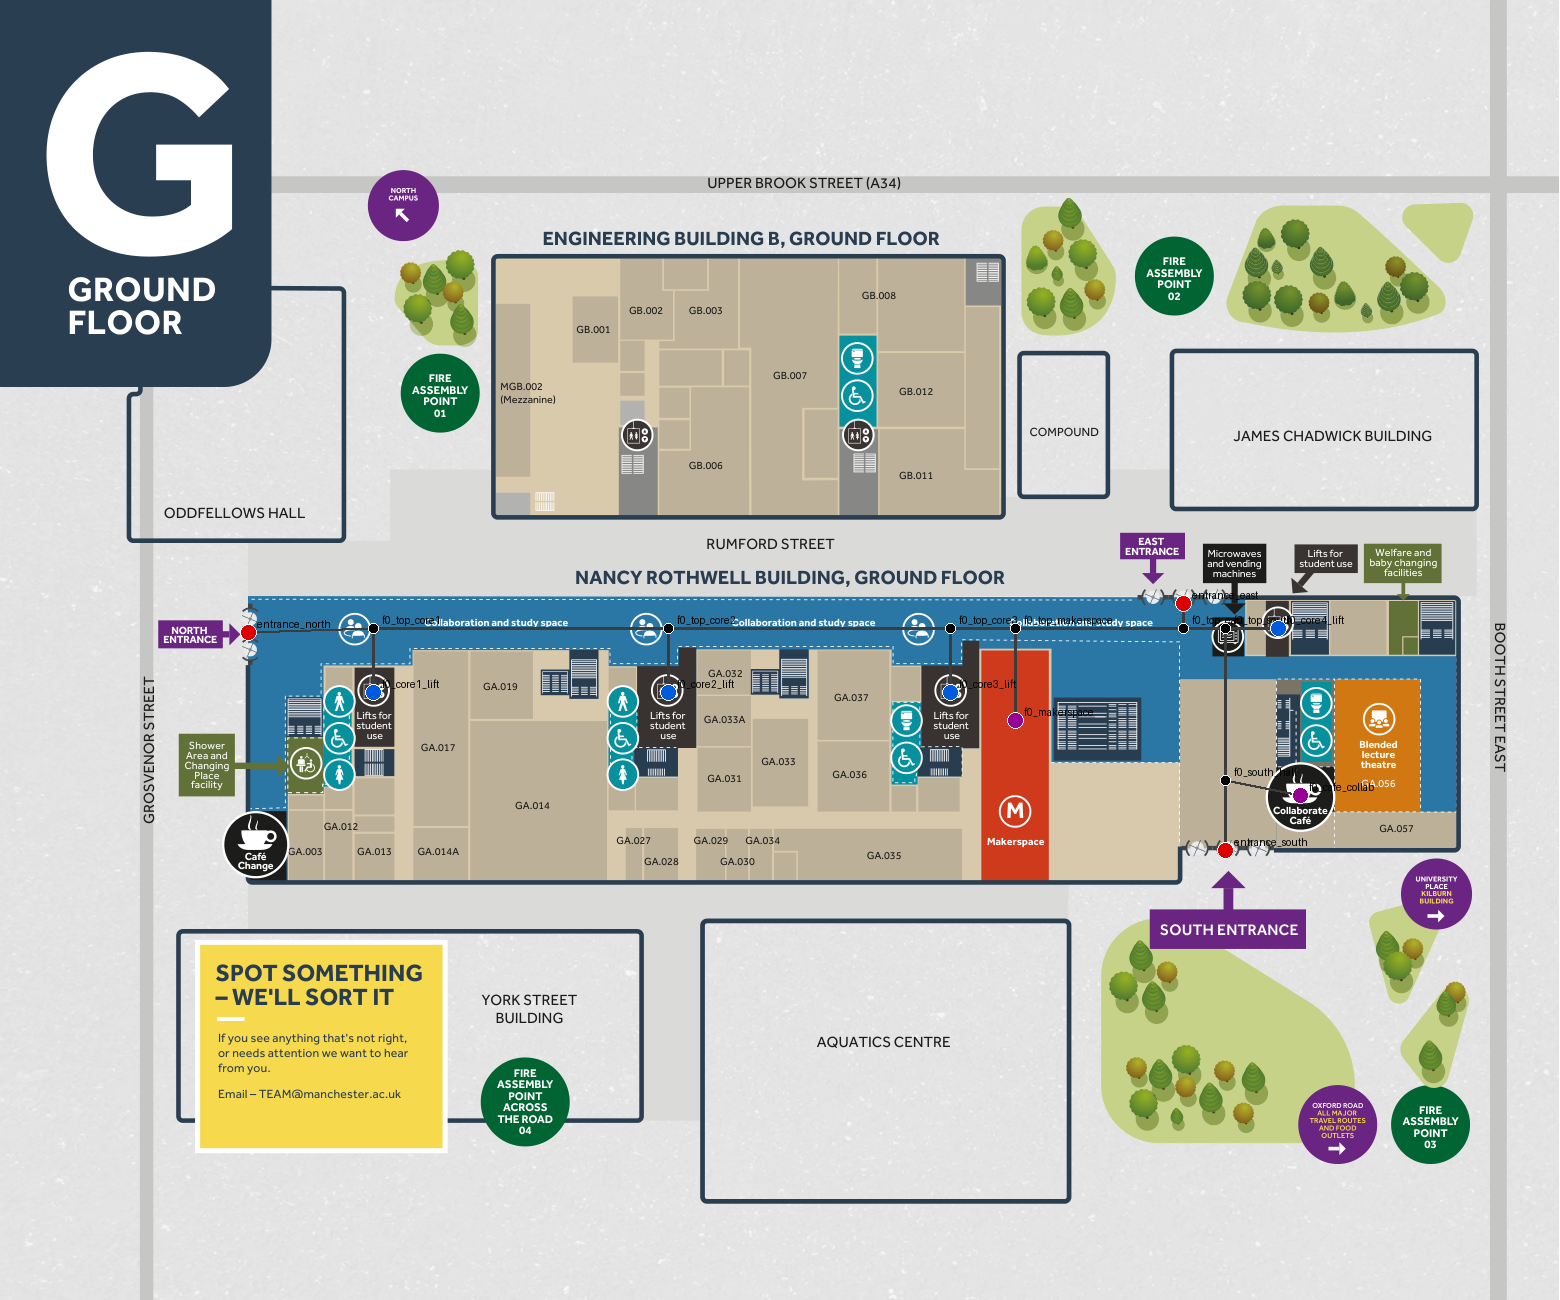
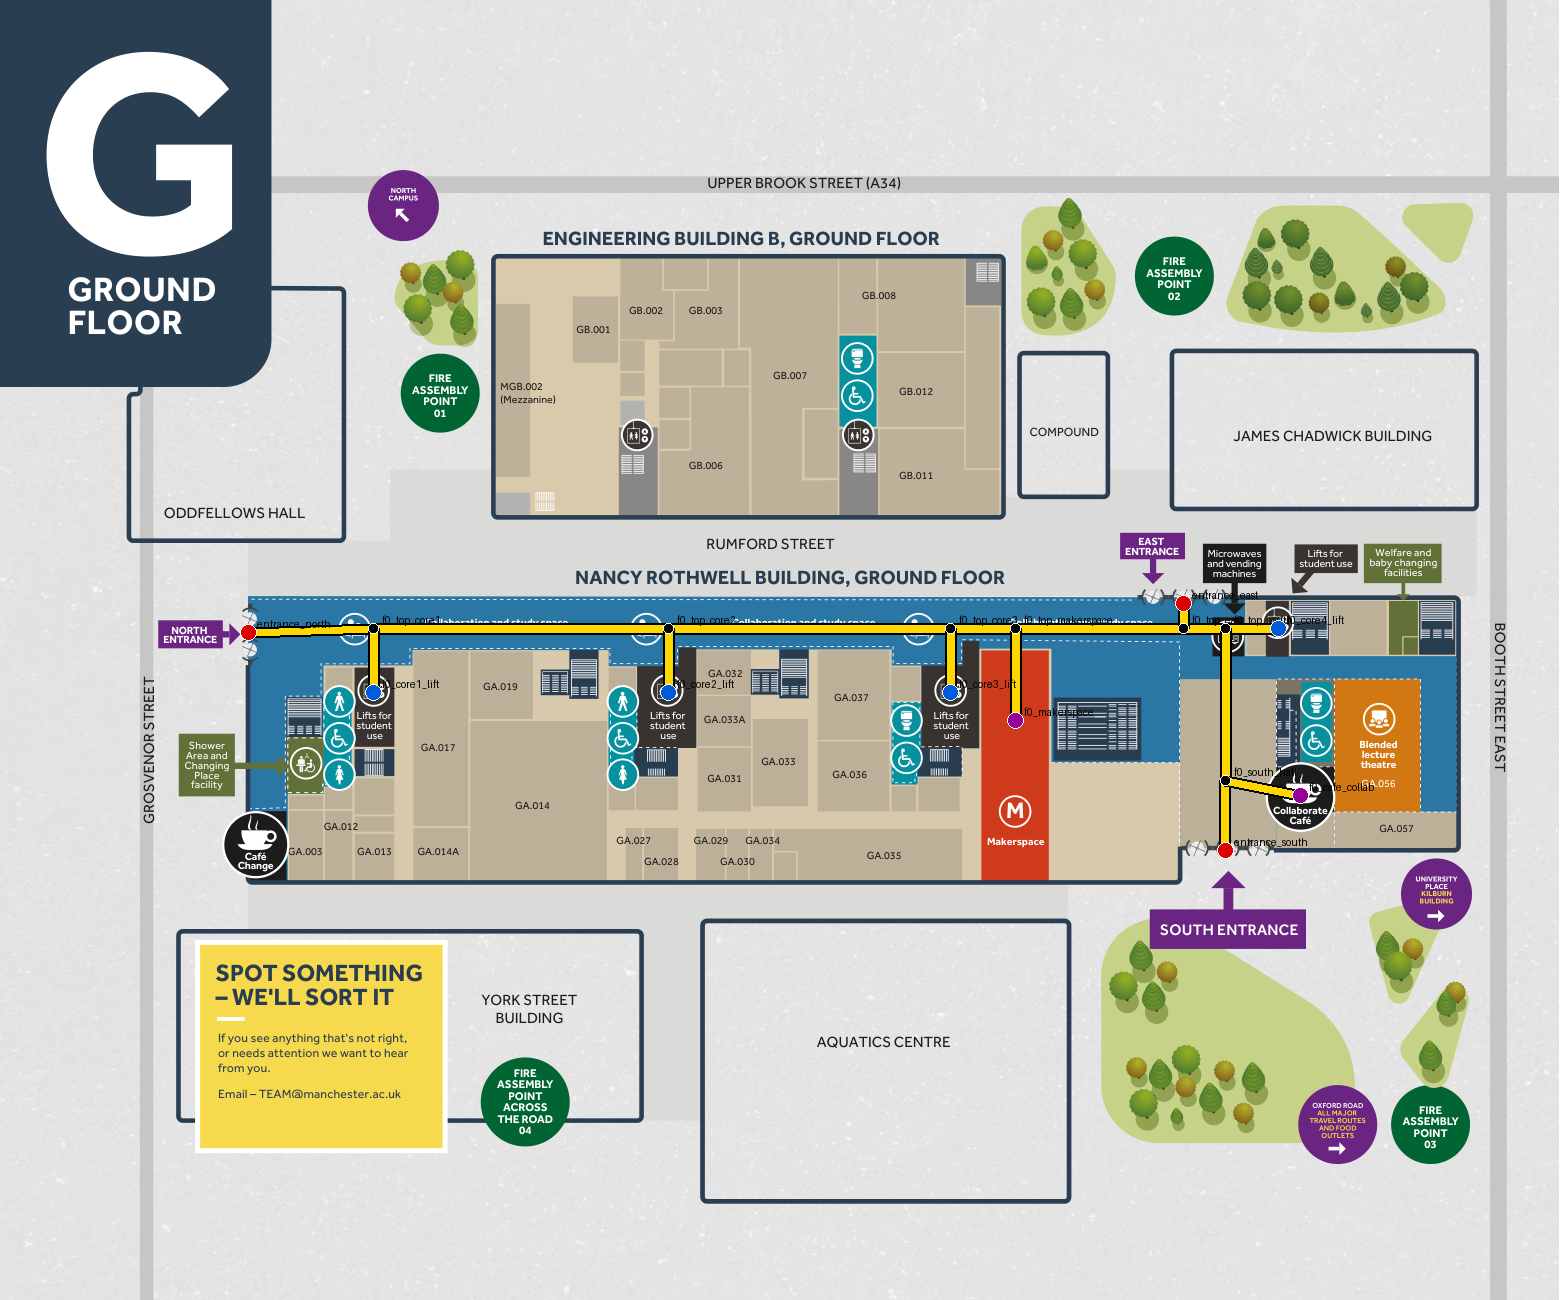
Overlay: thick bright lines with dark outline (#15)

Changed region(s): [[0.1538, 0.4615, 0.8308, 0.6462]]

diff --git a/backend/indoor/tools/render_overlay.py b/backend/indoor/tools/render_overlay.py
@@ -29,8 +29,11 @@ def render(floor: int, highlight: list[str] | None = None) -> Path:
         if a["floor"] != floor or c["floor"] != floor:
             continue
         on_route = (e["from"], e["to"]) in hl_edges or (e["to"], e["from"]) in hl_edges
-        col = (255, 0, 255) if on_route else (60, 60, 60)
-        d.line([(a["x"], a["y"]), (c["x"], c["y"])], fill=col, width=7 if on_route else 3)
+        # Thick bright line with a thin dark outline so it shows on any plan colour.
+        col = (255, 0, 200) if on_route else (255, 215, 0)
+        pts = [(a["x"], a["y"]), (c["x"], c["y"])]
+        d.line(pts, fill=(0, 0, 0), width=14 if on_route else 12)
+        d.line(pts, fill=col, width=9 if on_route else 8)
     for n in b["nodes"]:
         if n["floor"] != floor:
             continue
